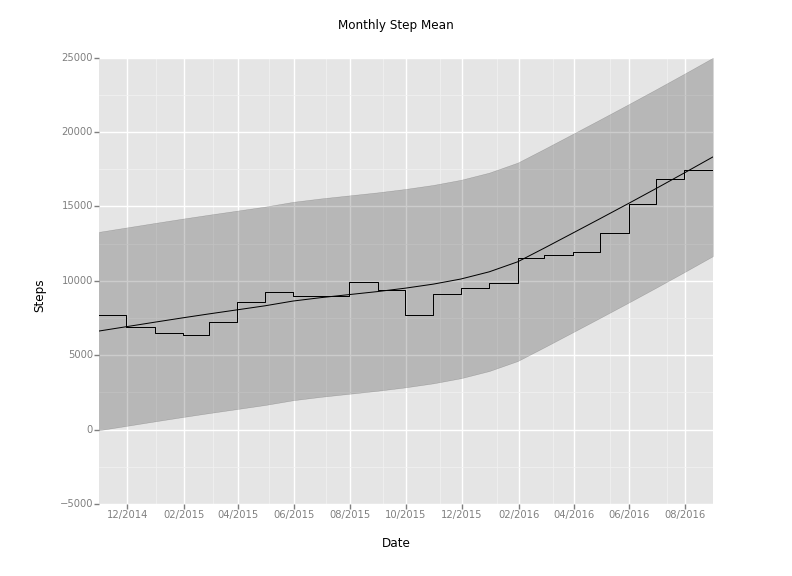
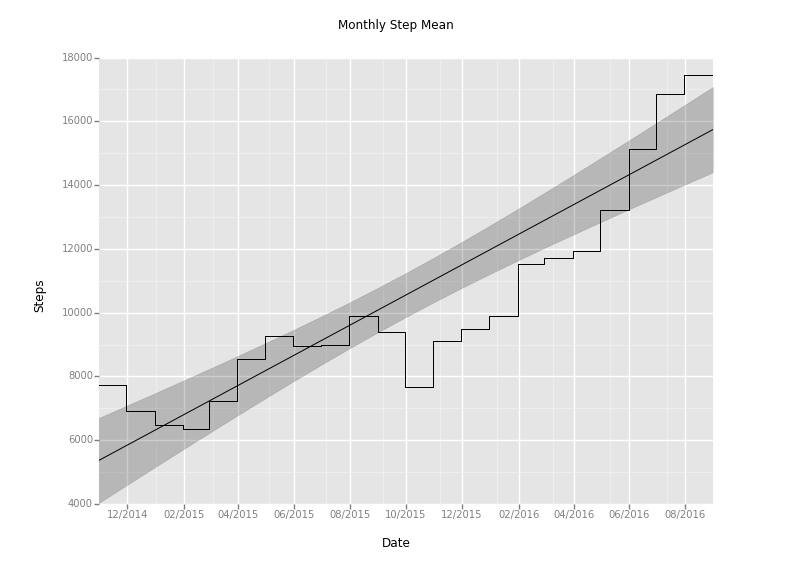
I should go to bed

diff --git a/phone-data/analysis.py b/phone-data/analysis.py
@@ -35,7 +35,7 @@ df_daily['step_count'] = df_hour.steps.resample('D').sum()
 df_daily.head()
 p = ggplot(df_daily, aes(x='__index__', y='step_count')) + \
     geom_step() + \
-    stat_smooth() + \
+    stat_smooth(method='lm') + \
     scale_x_date(labels="%m/%Y") + \
     ggtitle("Daily Step Count") + \
     xlab("Date") + \
@@ -43,14 +43,14 @@ p = ggplot(df_daily, aes(x='__index__', y='step_count')) + \
 print p
 p.save("daily_step_plot.png")
 
-# Weekly
+## Weekly
 df_weekly = pd.DataFrame()
 df_weekly['step_count'] = df_daily.step_count.resample('W').sum()
 df_weekly['step_mean'] = df_daily.step_count.resample('W').mean()
 df_weekly.head()
 p = ggplot(df_weekly, aes(x='__index__', y='step_count')) + \
     geom_step() + \
-    stat_smooth() + \
+    stat_smooth(method='lm') + \
     scale_x_date(labels="%m/%Y") + \
     ggtitle("Weekly Step Count") + \
     xlab("Date") + \
@@ -60,7 +60,7 @@ p.save("weekly_step_count_plot.png")
 
 p = ggplot(df_weekly, aes(x='__index__', y='step_mean')) + \
     geom_step() + \
-    stat_smooth() + \
+    stat_smooth(method='lm') + \
     scale_x_date(labels="%m/%Y") + \
     ggtitle("Weekly Step Mean") + \
     xlab("Date") + \
@@ -69,24 +69,24 @@ print p
 p.save("weekly_step_mean_plot.png")
 
 
-# Monthly
+## Monthly
 df_monthly = pd.DataFrame()
 df_monthly['step_count'] = df_daily.step_count.resample('M').sum()
 df_monthly['step_mean'] = df_daily.step_count.resample('M').mean()
 df_monthly.head()
 p = ggplot(df_monthly, aes(x='__index__', y='step_count')) + \
-    geom_step() + \
-    stat_smooth() + \
+    geom_step(method='lm') + \
+    stat_smooth(method='lm') + \
     scale_x_date(labels="%m/%Y") + \
     ggtitle("Monthly Step Count") + \
     xlab("Date") + \
     ylab("Steps")
 print p
-p.save("monthly_step_mean_plot.png")
+p.save("monthly_step_count_plot.png")
 
 p = ggplot(df_monthly, aes(x='__index__', y='step_mean')) + \
     geom_step() + \
-    stat_smooth() + \
+    stat_smooth(method='lm') + \
     scale_x_date(labels="%m/%Y") + \
     ggtitle("Monthly Step Mean") + \
     xlab("Date") + \
@@ -94,24 +94,24 @@ p = ggplot(df_monthly, aes(x='__index__', y='step_mean')) + \
 print p
 p.save("monthly_step_mean_plot.png")
 
-# Quarters
+## Quarters
 df_quarterly = pd.DataFrame()
 df_quarterly['step_count'] = df_daily.step_count.resample('Q').sum()
 df_quarterly['step_mean'] = df_daily.step_count.resample('Q').mean()
 df_quarterly.head()
 p = ggplot(df_quarterly, aes(x='__index__', y='step_count')) + \
     geom_step() + \
-    stat_smooth() + \
+    stat_smooth(method='lm') + \
     scale_x_date(labels="%m/%Y") + \
     ggtitle("Quartly Step Count") + \
     xlab("Date") + \
     ylab("Steps")
 print p
-p.save("quarterly_step_mean_plot.png")
+p.save("quarterly_step_count_plot.png")
 
 p = ggplot(df_quarterly, aes(x='__index__', y='step_mean')) + \
     geom_step() + \
-    stat_smooth() + \
+    stat_smooth(method='lm') + \
     scale_x_date(labels="%m/%Y") + \
     ggtitle("Quartly Step Mean") + \
     xlab("Date") + \

diff --git a/phone-data/blog_post.md b/phone-data/blog_post.md
@@ -18,33 +18,49 @@ A couple of notes about importing this data. We already know that we have time s
 df_hour = pd.read_csv('health_data_hour.csv', parse_dates=[0,1], names=['start_time', 'steps'], usecols=[0, 2], skiprows=1, index_col=0)
 # ensure the steps col are ints - weirdness going on with this one
 df_hour.steps = df_hour.steps.apply(lambda x: int(float(x)))
+df_hour.head()
 type(df_hour.index)
 type(df_hour.steps[1])
 ```
 
 ##HERE
 
-Notice that the type of the timestamp columns: `pandas.tslib.Timestamp`. This is the pandas Timestamp type. This gives us access to all sorts of goodies. As mentioned previously, pandas does Timestamps quite well.
+Notice that the type of the start_time column: `pandas.tseries.index.DatetimeIndex`. We got this type because we set the index column and it gives us access to all sorts of goodies - resampling for one, as we'll see later. As mentioned previously, pandas does Timestamps quite well.
 
-How about a quick [(gg)plot](http://github.com/yhat/ggplot) to explore the data we have here. (Notice that you can pass the dataframe index into the ggplot function)
+How about a quick [(gg)plot](http://github.com/yhat/ggplot) to explore the data we have here. (Notice that you can pass the dataframe `__index__` into the ggplot function)
 
 ### PLOT 1 - hourly data all
 
-Yuck...that's far too much data to be looking at all at once. I've got an idea - Pandas has a function called `resample` that will allow us to aggregate our data over a given period. More preciesely, this is called downsampling when you reduce the sampling rate of a given signal. For this example, I want to take my hourly data, and start by looking at it in terms of daily, weekly and monthly totals.  Let's start with the daily totals:
+Yuck! That's a little too busy. How can we improve our visualization? I've got an idea - pandas has a function called `resample` that will allow us to aggregate our time series data over a given period. More precisely, this is called downsampling when you reduce the sampling rate of a given signal. For this example, we will take the hourly data, and resample it on a daily, weekly, and monthly basis.  Let's start with the daily totals:
 
 ```
-DAILY RE-SAMLE
+df_daily = pd.DataFrame()
+df_daily['step_count'] = df_hour.steps.resample('D').sum()
+df_daily.head()
+p = ggplot(df_daily, aes(x='__index__', y='step_count')) + \
+    geom_step() + \
+    stat_smooth() + \
+    scale_x_date(labels="%m/%Y") + \
+    ggtitle("Daily Step Count") + \
+    xlab("Date") + \
+    ylab("Steps")
+print p
 ```
 
 ### PLOT 2 - DAILY DATA, STAT SMOOTH
 
-Ahhh - we're getting somewhere now.  Looks like a nice upward trend
+Ah-ha! We're getting somewhere now.  That's a much more readable plot :) and it looks like there's a nice upward trend. Armed with this, we're able to do weekly and monthly resampling easily as well. Just pass `'W'` or `'M'` into the resample function. It makes sense to start averaging the data with this resampling to get a daily average during the week and month sample as that is the metric that I'm interested in targeting (got to get those 10,000 a day!). That just takes changing the `sum()` function after the `resample` to a `mean()`. Like this:
 
-Armed with this, we're able to do weekly and monthy averaging easily as well.  Just pass `'W'` or `'M'` into the resample function.
+```
+df_weekly['step_mean'] = df_daily.step_count.resample('W').mean()
+df_monthly['step_mean'] = df_daily.step_count.resample('M').mean()
+```
 
-If we needed to, pandas can do upsampling - the opposite of what we just did. Take a look at the docs if that's in your wheelhouse!
+## PLOT 3 AND 4 - WEEK AND MONTH AVERAGES
 
-## Going deeper
+Pandas can also do the opposite of what we just did; called upsampling. Take a look at the docs if that's in your wheelhouse!
+
+## Going (slightly) deeper
 
 I'm curious if I'm getting more steps during the weekend than during the week.  This analsis will draw on my previous post on [grouping in padas](http://blog.yhat.com/posts/grouping-pandas.html)
 
@@ -108,9 +124,6 @@ True          10228      5.5
 ```
 
 So maybe a slight edge goes to those weekends :)
-
-
-#### Window functions/moving average
 
 
 Have a look at [my repo](https://github.com/rkipp1210/data-projects) for this project if you want to see the source.
